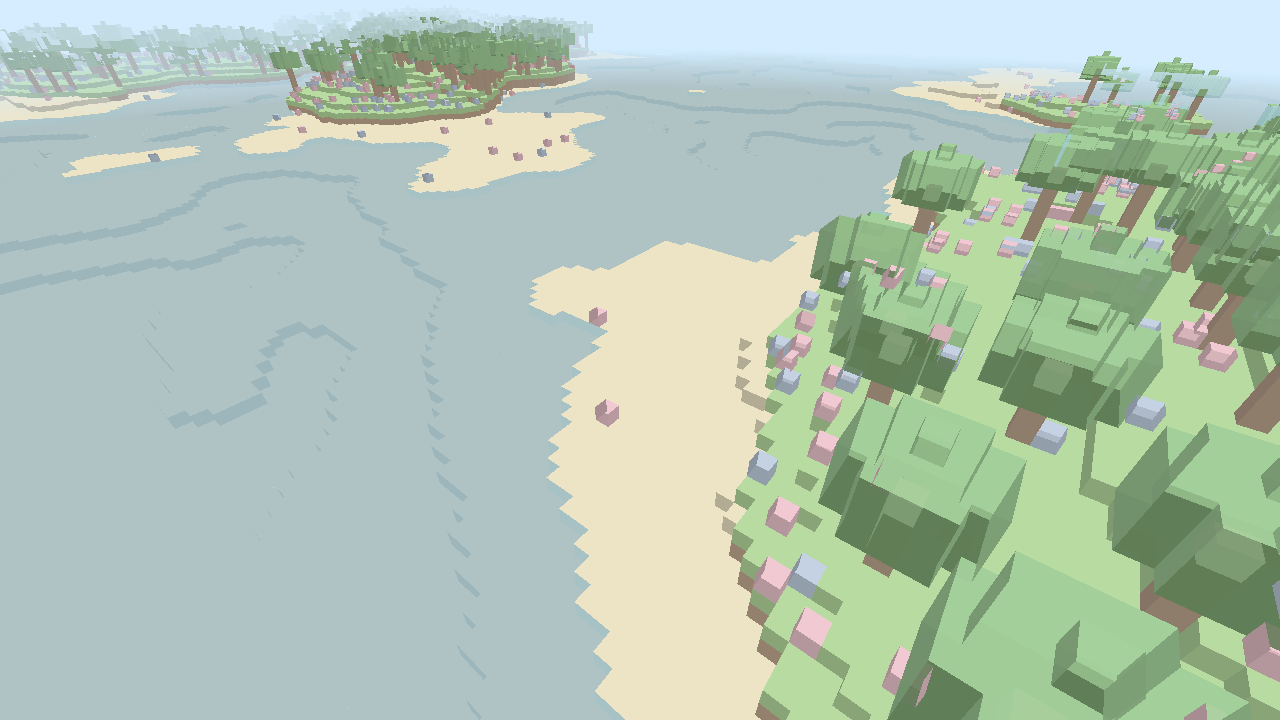
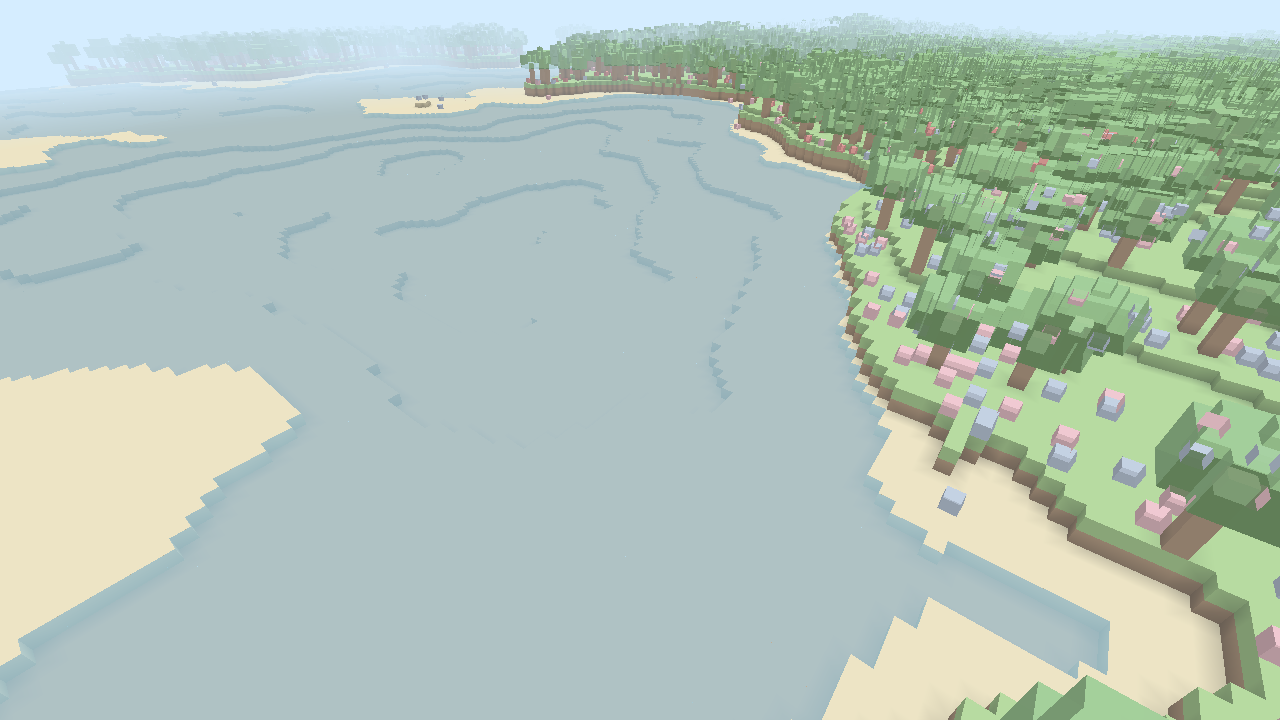
Stage 7: ambient occlusion + land spawn
- Mesher now bakes Minecraft-style per-vertex ambient occlusion into the
  greedy pass: AO is part of the merge key (flat areas still collapse to big
  quads, creases keep per-cell shading), corner darkening has a cosy floor so
  crevices read as soft shadow not black, and the quad split diagonal flips to
  avoid AO seams. New regression test covers corner darkening.
- Game now spiral-searches for dry land near the origin and spawns the cat just
  above that surface, so it never starts in the ocean (covered across 6 seeds).

Updated screenshots show AO contact shadows and proper land vistas.

diff --git a/crates/mesh/src/lib.rs b/crates/mesh/src/lib.rs
@@ -42,24 +42,34 @@ impl MeshBuffers {
         self.indices.len() / 6
     }
 
-    fn push_quad(&mut self, corners: [[f32; 3]; 4], normal: [f32; 3], color: [f32; 4], flip: bool) {
+    fn push_quad(
+        &mut self,
+        corners: [[f32; 3]; 4],
+        colors: [[f32; 4]; 4],
+        normal: [f32; 3],
+        reverse_winding: bool,
+        flip_diagonal: bool,
+    ) {
         let base = self.vertices.len() as u32;
-        for &position in &corners {
+        for (position, color) in corners.into_iter().zip(colors) {
             self.vertices.push(Vertex {
                 position,
                 normal,
                 color,
             });
         }
-        // Two triangles. `flip` reverses winding for negative-facing quads so
-        // every front face is consistently counter-clockwise.
-        if flip {
-            self.indices
-                .extend_from_slice(&[base, base + 2, base + 1, base, base + 3, base + 2]);
+        // Choose the split diagonal (0–2 vs 1–3) for smooth AO interpolation.
+        let mut idx = if flip_diagonal {
+            [base + 1, base + 2, base + 3, base + 1, base + 3, base]
         } else {
-            self.indices
-                .extend_from_slice(&[base, base + 1, base + 2, base, base + 2, base + 3]);
+            [base, base + 1, base + 2, base, base + 2, base + 3]
+        };
+        // Reverse winding for negative-facing quads so every front face stays
+        // consistently counter-clockwise for back-face culling.
+        if reverse_winding {
+            idx.reverse();
         }
+        self.indices.extend_from_slice(&idx);
     }
 }
 
@@ -94,11 +104,17 @@ enum Layer {
     Transparent,
 }
 
-/// Identifies a face for greedy-merge equality: same block, same facing.
+/// Identifies a face for greedy-merge equality: same block, same facing, and
+/// the same four-corner ambient-occlusion pattern. Including AO in the key means
+/// faces only merge where the baked corner shadow is identical — flat open areas
+/// still collapse into big quads, while creases keep their per-cell shading.
 #[derive(Clone, Copy, PartialEq, Eq)]
 struct FaceKey {
     block: BlockId,
     positive: bool,
+    /// Corner occlusion 0..3 (0 = darkest crevice, 3 = fully open), ordered
+    /// `[(-u,-v), (+u,-v), (+u,+v), (-u,+v)]` to match emitted quad corners.
+    ao: [u8; 4],
 }
 
 /// Per-face directional shading for a soft, cosy look. Top faces are brightest,
@@ -132,17 +148,18 @@ fn greedy_pass<S: BlockSampler>(
     out: &mut MeshBuffers,
 ) {
     // Decide whether the face between voxels `a` (lower along axis d) and `b`
-    // (higher) should be emitted in this layer, and to whom it belongs.
-    let face_between = |a: BlockId, b: BlockId| -> Option<FaceKey> {
+    // (higher) should be emitted in this layer, and to whom it belongs. Returns
+    // `(block, positive)`; ambient occlusion is computed separately below.
+    let face_between = |a: BlockId, b: BlockId| -> Option<(BlockId, bool)> {
         let ba = registry.get(a);
         let bb = registry.get(b);
         match layer {
             Layer::Opaque => {
                 // Opaque cube exposed to a non-opaque neighbour.
                 if ba.occludes() && !bb.occludes() {
-                    Some(FaceKey { block: a, positive: true })
+                    Some((a, true))
                 } else if bb.occludes() && !ba.occludes() {
-                    Some(FaceKey { block: b, positive: false })
+                    Some((b, false))
                 } else {
                     None
                 }
@@ -154,9 +171,9 @@ fn greedy_pass<S: BlockSampler>(
                 let a_t = ba.is_visible() && !ba.occludes();
                 let b_t = bb.is_visible() && !bb.occludes();
                 if a_t && a != b && !bb.occludes() {
-                    Some(FaceKey { block: a, positive: true })
+                    Some((a, true))
                 } else if b_t && a != b && !ba.occludes() {
-                    Some(FaceKey { block: b, positive: false })
+                    Some((b, false))
                 } else {
                     None
                 }
@@ -185,7 +202,20 @@ fn greedy_pass<S: BlockSampler>(
                     hi[d] += 1;
                     let a = sampler.block_at(lo[0], lo[1], lo[2]);
                     let b = sampler.block_at(hi[0], hi[1], hi[2]);
-                    mask[n] = face_between(a, b);
+                    mask[n] = face_between(a, b).map(|(block, positive)| {
+                        // AO only matters for the solid world; transparent
+                        // foliage/water stays unshaded (full brightness).
+                        let ao = if layer == Layer::Opaque {
+                            compute_ao(sampler, registry, lo, d, u, v, positive)
+                        } else {
+                            [3; 4]
+                        };
+                        FaceKey {
+                            block,
+                            positive,
+                            ao,
+                        }
+                    });
                     n += 1;
                 }
             }
@@ -249,11 +279,25 @@ fn emit_quad(
     let block = registry.get(key.block);
     let shade = face_shade(d, key.positive);
     let c = block.color;
-    let color = [
+    let base_rgb = [
         (c.r as f32 / 255.0) * shade,
         (c.g as f32 / 255.0) * shade,
         (c.b as f32 / 255.0) * shade,
-        c.a as f32 / 255.0,
+    ];
+    let alpha = c.a as f32 / 255.0;
+
+    // Map AO level 0..3 to a brightness multiplier. 3 (open) = full bright;
+    // 0 (deep crevice) keeps a gentle floor so corners are cosy, not black.
+    let ao_factor = |level: u8| 0.5 + 0.5 * (level as f32 / 3.0);
+    let corner_color = |level: u8| {
+        let f = ao_factor(level);
+        [base_rgb[0] * f, base_rgb[1] * f, base_rgb[2] * f, alpha]
+    };
+    let colors = [
+        corner_color(key.ao[0]),
+        corner_color(key.ao[1]),
+        corner_color(key.ao[2]),
+        corner_color(key.ao[3]),
     ];
 
     let mut base = [0f32; 3];
@@ -278,7 +322,54 @@ fn emit_quad(
     let mut normal = [0f32; 3];
     normal[d] = if key.positive { 1.0 } else { -1.0 };
 
-    out.push_quad([p0, p1, p2, p3], normal, color, !key.positive);
+    // Flip the quad's split diagonal when AO is anisotropic, so the gradient
+    // interpolates smoothly instead of producing a hard diagonal seam.
+    let flip_diagonal = key.ao[0] as i32 + key.ao[2] as i32 > key.ao[1] as i32 + key.ao[3] as i32;
+
+    out.push_quad([p0, p1, p2, p3], colors, normal, !key.positive, flip_diagonal);
+}
+
+/// Compute four-corner ambient occlusion for a face. `lo` is the lower voxel's
+/// local coords with `lo[d]` at the slice; `positive` selects which side the
+/// face looks toward. Occluders are sampled in the layer the face opens into.
+fn compute_ao<S: BlockSampler>(
+    sampler: &S,
+    registry: &BlockRegistry,
+    lo: [i32; 3],
+    d: usize,
+    u: usize,
+    v: usize,
+    positive: bool,
+) -> [u8; 4] {
+    // The empty layer the face opens onto: slice+1 for +d faces, slice for -d.
+    let outer_d = if positive { lo[d] + 1 } else { lo[d] };
+    let i = lo[u];
+    let j = lo[v];
+    let occ = |ou: i32, ov: i32| -> u8 {
+        let mut p = [0i32; 3];
+        p[d] = outer_d;
+        p[u] = i + ou;
+        p[v] = j + ov;
+        registry.get(sampler.block_at(p[0], p[1], p[2])).occludes() as u8
+    };
+    // Vertex order matches emitted corners: (-u,-v), (+u,-v), (+u,+v), (-u,+v).
+    [
+        ao_value(occ(-1, 0), occ(0, -1), occ(-1, -1)),
+        ao_value(occ(1, 0), occ(0, -1), occ(1, -1)),
+        ao_value(occ(1, 0), occ(0, 1), occ(1, 1)),
+        ao_value(occ(-1, 0), occ(0, 1), occ(-1, 1)),
+    ]
+}
+
+/// Classic Minecraft-style vertex AO: two fully-occluding edge neighbours
+/// darken hardest; otherwise subtract the count of occluding neighbours.
+#[inline]
+fn ao_value(side1: u8, side2: u8, corner: u8) -> u8 {
+    if side1 == 1 && side2 == 1 {
+        0
+    } else {
+        3 - (side1 + side2 + corner)
+    }
 }
 
 /// Convenience sampler backed by a single [`ChunkStorage`]: every position
@@ -386,6 +477,36 @@ mod tests {
         // Stone exposes all 6 faces (the -X side touches water, which does not
         // occlude).
         assert_eq!(m.opaque.quad_count(), 6);
+    }
+
+    #[test]
+    fn ambient_occlusion_darkens_inner_corners() {
+        // A lone block's top face, with two occluders placed diagonally above so
+        // that the (+u,+v) corner sees both edge neighbours occluding (AO 0)
+        // while the opposite corner stays fully open (AO 3).
+        let mut s = ChunkStorage::empty();
+        s.set(LocalPos::new(5, 5, 5), blocks::STONE);
+        s.set(LocalPos::new(5, 6, 6), blocks::STONE);
+        s.set(LocalPos::new(6, 6, 5), blocks::STONE);
+        let m = mesh_storage(&s);
+
+        // Gather the green channel of the target block's top face (y == 6,
+        // facing +Y).
+        let greens: Vec<f32> = m
+            .opaque
+            .vertices
+            .iter()
+            .filter(|v| v.normal[1] > 0.5 && (v.position[1] - 6.0).abs() < 1e-3)
+            .map(|v| v.color[1])
+            .collect();
+        assert!(greens.len() >= 4, "expected a top face quad, got {}", greens.len());
+        let min = greens.iter().cloned().fold(f32::INFINITY, f32::min);
+        let max = greens.iter().cloned().fold(f32::NEG_INFINITY, f32::max);
+        // Darkest corner is the AO floor (0.5×) of the brightest open corner.
+        assert!(
+            (min / max - 0.5).abs() < 0.05,
+            "AO not applied as expected: min {min}, max {max}"
+        );
     }
 
     #[test]

diff --git a/crates/game/src/lib.rs b/crates/game/src/lib.rs
@@ -40,9 +40,10 @@ impl Game {
     pub fn new(seed: u64, config: StreamConfig, worker_count: usize) -> Self {
         let manager = ChunkManager::new(seed, config, worker_count);
         let inventory = Inventory::new(manager.registry.len());
-        // Spawn high in the sky; the player settles onto terrain once the
-        // spawn column streams in.
-        let spawn = Vec3::new(0.5, 160.0, 0.5);
+        // Find dry land near the origin so the cat doesn't spawn in the ocean,
+        // then drop in from just above that surface.
+        let (sx, sz, sh) = find_land_spawn(&manager);
+        let spawn = Vec3::new(sx as f32 + 0.5, sh as f32 + 3.0, sz as f32 + 0.5);
         let player = Player::new(spawn);
         Self {
             manager,
@@ -81,6 +82,35 @@ impl Game {
     }
 }
 
+/// Spiral outward from the origin to find a column whose surface is above sea
+/// level (i.e. dry land), returning `(x, z, surface_height)`. Falls back to the
+/// origin if nothing is found within the search radius.
+fn find_land_spawn(manager: &ChunkManager) -> (i32, i32, i32) {
+    use pixelcraft_worldgen::SEA_LEVEL;
+    let mut best = (0, 0, manager.surface_height(0, 0));
+    // Sample on a grid spiralling out; we want land a little above the waterline
+    // so the spawn feels like a proper beach/meadow, not a puddle. Ocean-heavy
+    // worlds can push land far from the origin, so search a wide radius — it's
+    // only a few thousand cheap noise evaluations.
+    for radius in (0..=8000).step_by(12) {
+        // More angular samples as the ring grows, to keep spatial coverage even.
+        let angles = (16 + radius / 24).min(96);
+        for angle_step in 0..angles {
+            let theta = angle_step as f32 / angles as f32 * std::f32::consts::TAU;
+            let x = (radius as f32 * theta.cos()) as i32;
+            let z = (radius as f32 * theta.sin()) as i32;
+            let h = manager.surface_height(x, z);
+            if h >= SEA_LEVEL + 2 {
+                return (x, z, h);
+            }
+            if h > best.2 {
+                best = (x, z, h);
+            }
+        }
+    }
+    best
+}
+
 #[cfg(test)]
 mod tests {
     use super::*;
@@ -111,6 +141,22 @@ mod tests {
         // It should have come to rest above sea level-ish, not at the void.
         assert!(game.player.position.y > 1.0);
         assert!(game.world_ready_under_player());
+    }
+
+    #[test]
+    fn spawn_is_on_dry_land() {
+        use pixelcraft_worldgen::SEA_LEVEL;
+        // Across several seeds, the chosen spawn column should be above water.
+        for seed in [1u64, 2, 3, 42, 777, 0xCA75_C0DE] {
+            let game = Game::new(seed, test_config(), 0);
+            let h = game
+                .manager
+                .surface_height(game.player.position.x as i32, game.player.position.z as i32);
+            assert!(
+                h >= SEA_LEVEL,
+                "seed {seed}: spawned underwater (surface {h} < sea {SEA_LEVEL})"
+            );
+        }
     }
 
     #[test]

diff --git a/crates/game/src/streaming.rs b/crates/game/src/streaming.rs
@@ -177,6 +177,12 @@ impl ChunkManager {
         self.workers.is_empty()
     }
 
+    /// Terrain surface height for a world column (delegates to the generator),
+    /// without needing the chunk to be loaded.
+    pub fn surface_height(&self, wx: i32, wz: i32) -> i32 {
+        self.gen.surface_height(wx, wz)
+    }
+
     /// Chunk containing a world position.
     pub fn chunk_of(pos: glam::Vec3) -> ChunkPos {
         BlockPos::new(
